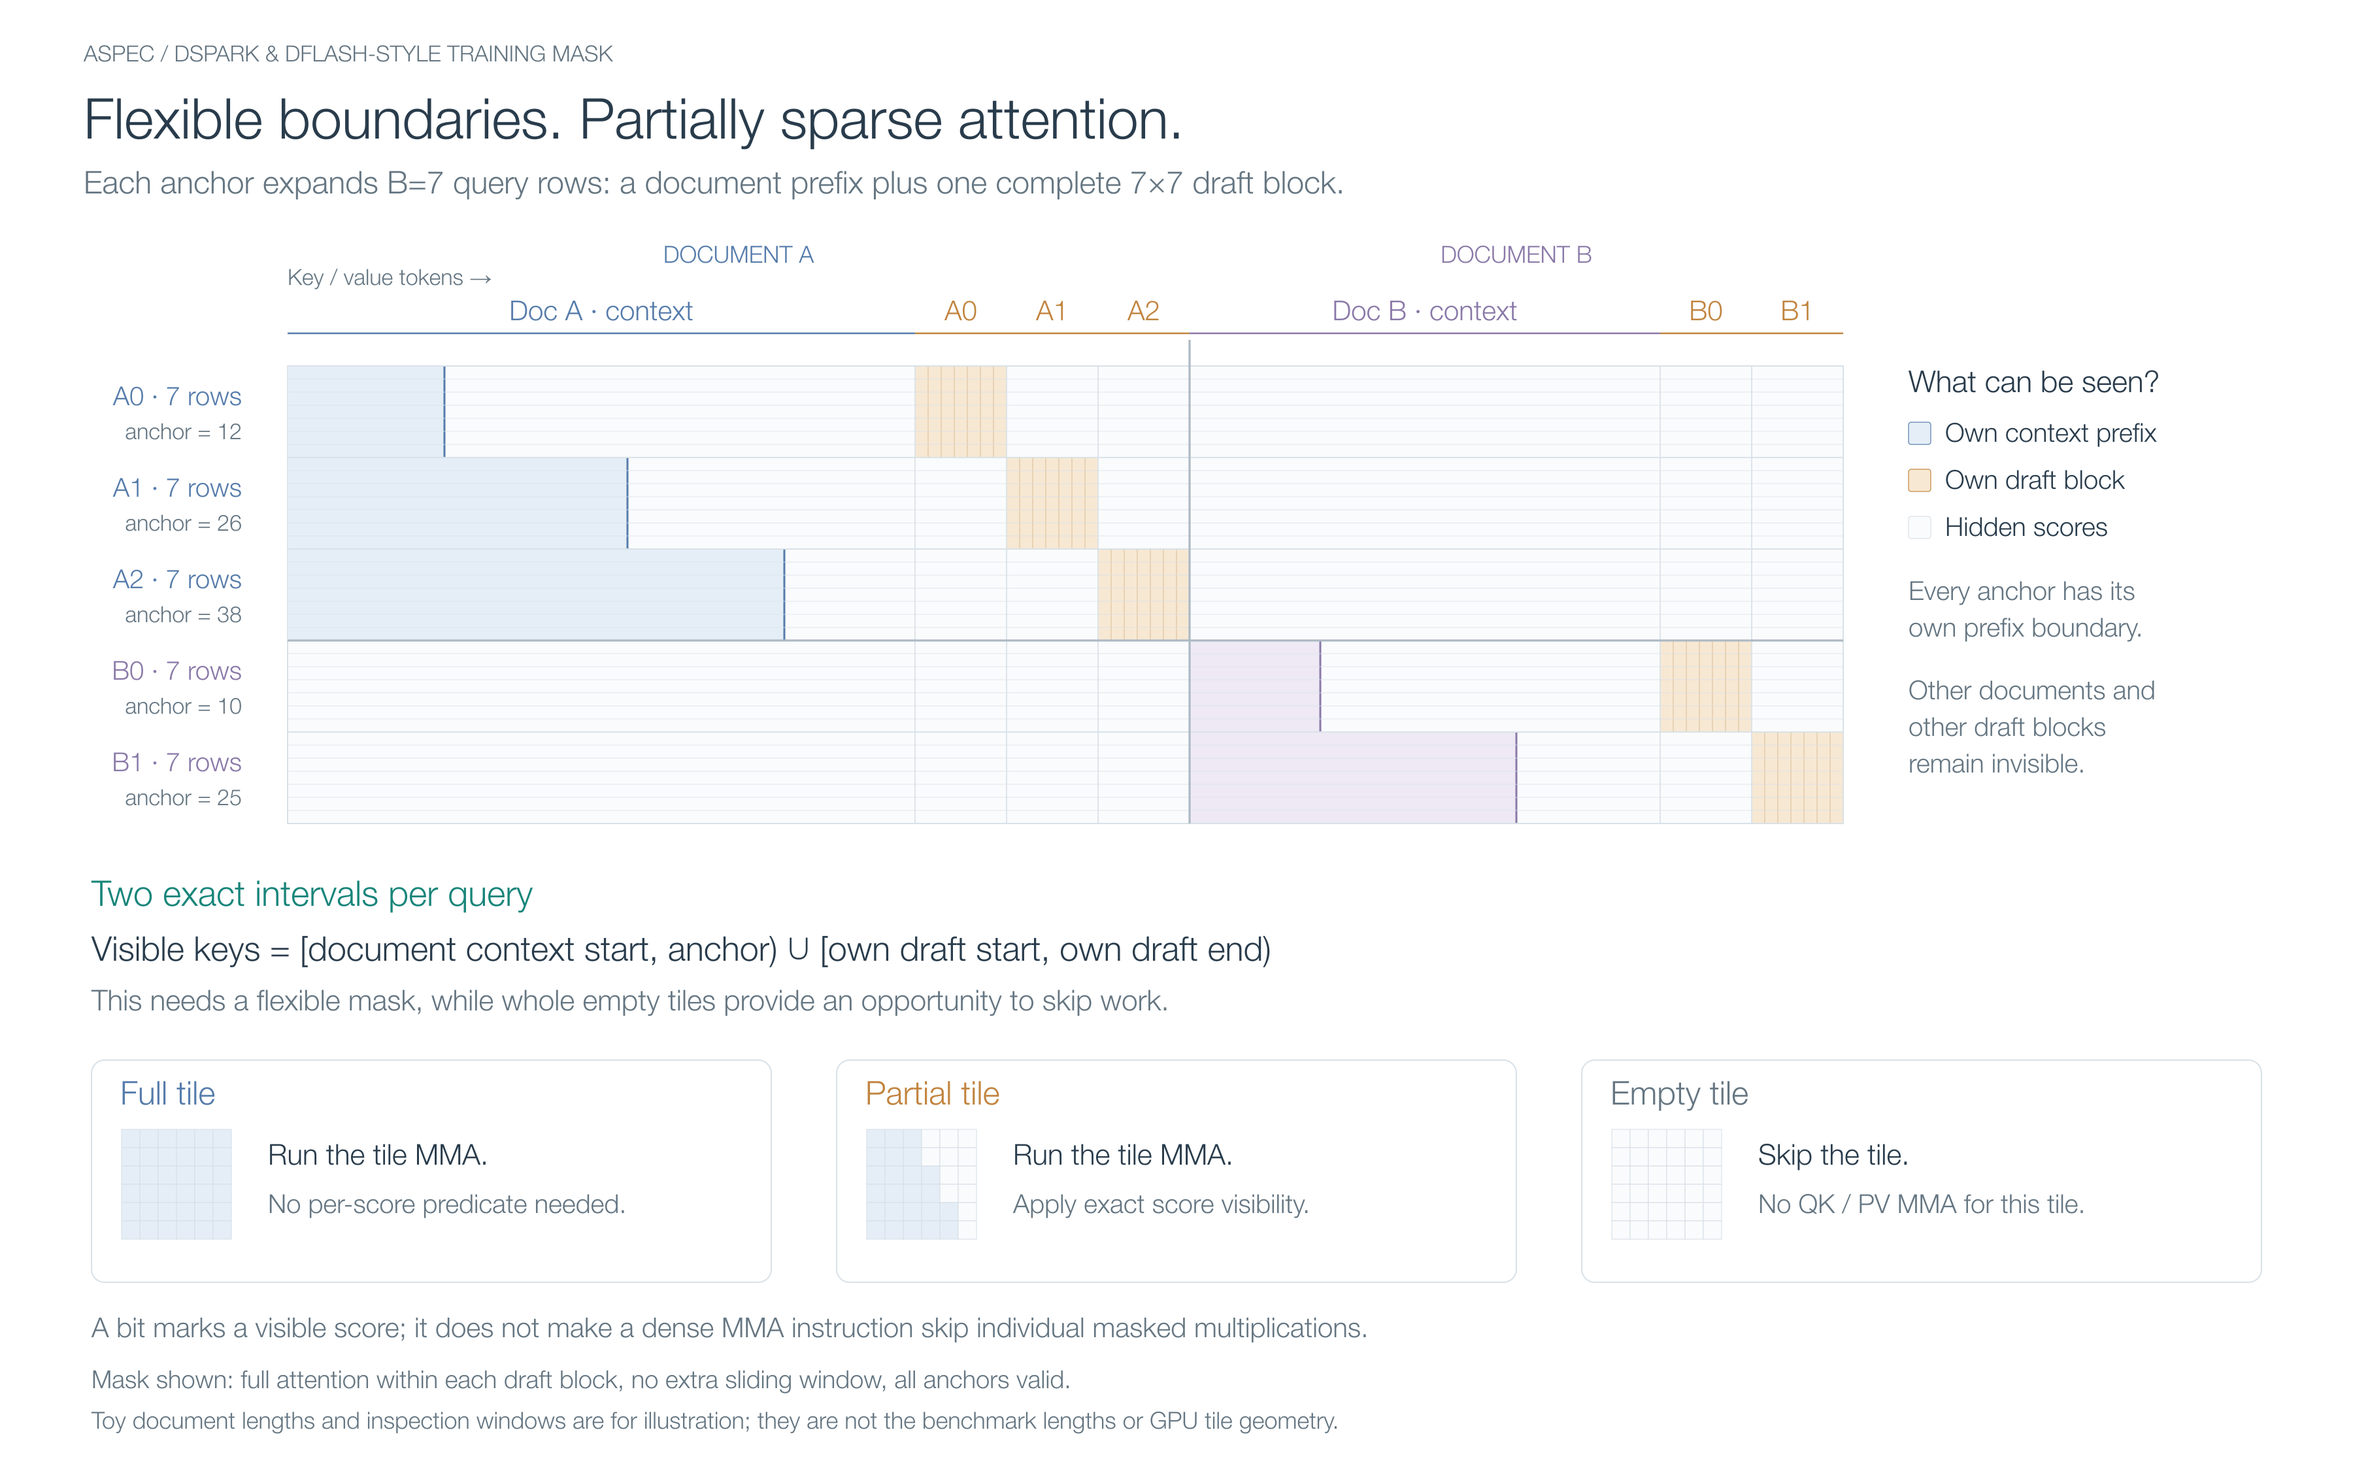
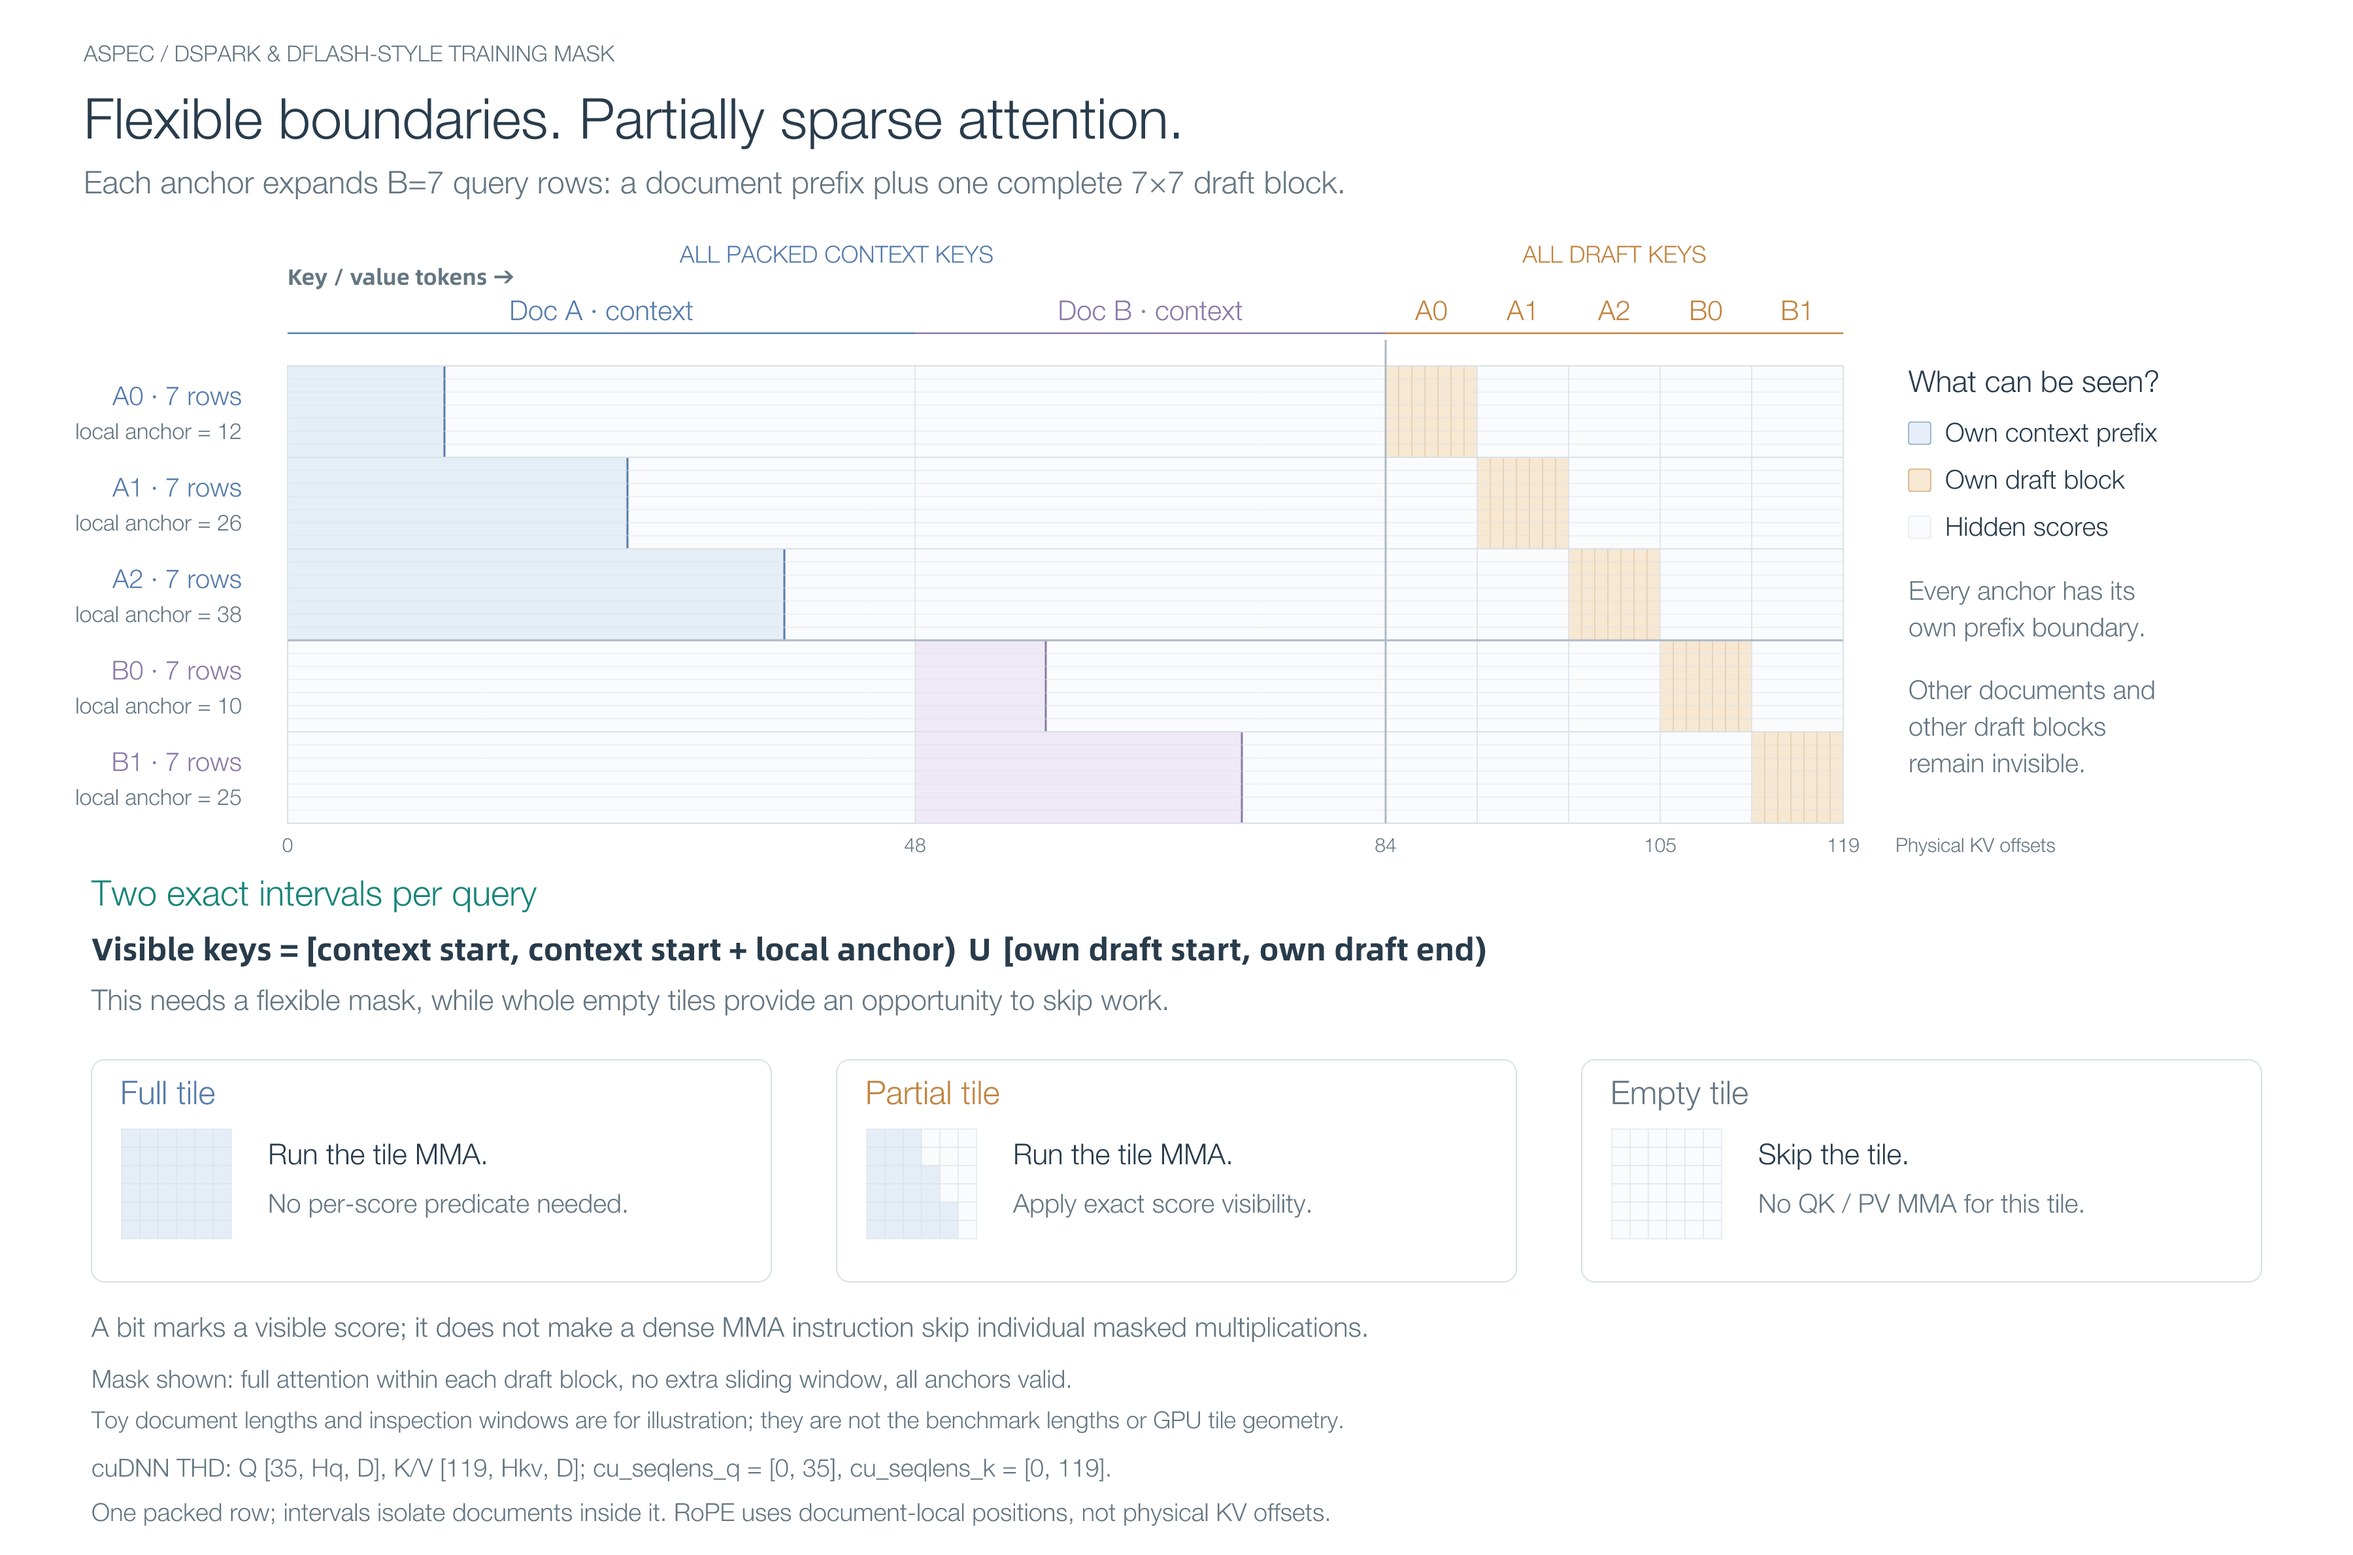
docs(attention): align packed mask figure with source layout

diff --git a/DSPARK_ATTENTION_KERNEL_SELECTION_AND_OPTIMIZATION.md b/DSPARK_ATTENTION_KERNEL_SELECTION_AND_OPTIMIZATION.md
@@ -22,7 +22,7 @@ An anchor identifies a position in a context document. Each anchor expands into 
 
 They cannot attend to another document, a later context position, or another anchor's draft block. Attention within the draft block is fully visible in this configuration. Causal-within-block or sliding-window variants would change the boundaries.
 
-![The DSpark/DFlash-style mask: visible context prefixes, own draft blocks, and full/partial/empty tile classification.](pictures/dspark-attention-training/01-visible-regions.png)
+![The source-aligned packed mask: all context keys before all draft keys, document-local prefixes, and full/partial/empty tiles.](pictures/dspark-attention-training/01-visible-regions.png)
 
 For a query in anchor block `r` of document `d`, write the visible key positions as:
 
@@ -30,7 +30,19 @@ For a query in anchor block `r` of document `d`, write the visible key positions
 \mathcal{V}(q) = [c_d, a_r) \;\cup\; [t_r, t_r+B).
 ```
 
-Here `c_d` is the document's context start, `a_r` its anchor boundary, and `t_r` the start of its own draft block, all in the same flattened key coordinate system. Native THD APIs can instead use sample-local endpoints and cumulative lengths to preserve document ownership.
+Here `c_d` is the document's context start, `a_r` its anchor boundary, and `t_r` the start of its own draft block, all in the same flattened key coordinate system. In particular, `a_r = c_d + local_anchor`; a document-local anchor is not itself a physical KV offset.
+
+The figure follows ASpec's CP=1 packed implementation: **all context keys come first, then all draft keys**. For its two toy documents, the physical order is:
+
+```text
+Context: [A context (48 tokens) | B context (36 tokens)]
+Draft Q: [A0 (7) | A1 (7) | A2 (7) | B0 (7) | B1 (7)]
+K / V:   [A context | B context | A0 | A1 | A2 | B0 | B1]
+```
+
+For example, B0's local anchor is 10. Its seven queries see context keys `[48, 58)` and their own draft keys `[105, 112)`. They cannot see A's context or any other draft block. RoPE still uses positions local to each document; the physical KV offsets above are only storage and mask coordinates.
+
+In this cuDNN THD adapter, Q and KV are flattened to `[T, H, D]`, and cumulative lengths delimit **packed rows**, not each original document. This one-row example has `cu_seqlens_q=[0,35]` and `cu_seqlens_k=[0,119]`; interval endpoints enforce document isolation inside that row. The FA4 route retains a singleton batch for its fixed sparse API and uses document/block metadata for the same visibility. THD does not require interleaving each document's context with its draft blocks.
 
 This is a small union of intervals, but it is not one ordinary causal triangle. Prefix boundaries differ across anchors, and packing adds document boundaries. A flexible mask is necessary.
 

diff --git a/pictures/dspark-attention-training/README.md b/pictures/dspark-attention-training/README.md
@@ -19,6 +19,13 @@ It is common to the selected DSpark and DFlash-style configurations, not a claim
 that their complete models or objectives are identical. Toy contexts contain 48
 and 36 tokens, with five anchors total, only to make visible regions legible.
 The benchmark instead has 131072 context tokens and 6144 anchors.
+The CP=1 physical key order is `[A context, B context, A0, A1, A2, B0, B1]`:
+all context precedes all draft keys. The toy cuDNN THD call has Q/KV lengths
+35/119 and cumulative lengths `[0,35]` / `[0,119]` for one packed row;
+intervals isolate the documents within it. The displayed anchors are
+**document-local**; RoPE positions are separate from physical key offsets.
+This matches ASpec's dual-source KV construction and `direct_cp` THD adapter,
+which preserve packed rows rather than regrouping KV per document on each layer.
 
 The five-way measurement uses the same frozen tensors, document boundaries,
 anchor positions and per-document supervision budget for every route. The
